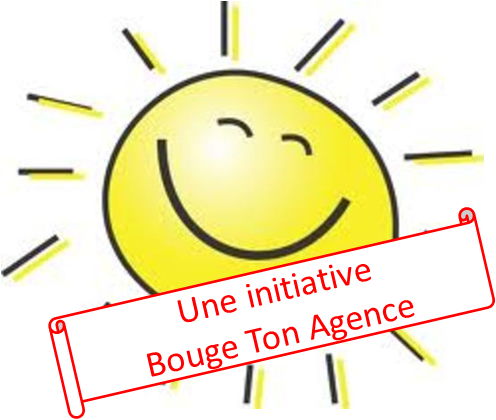
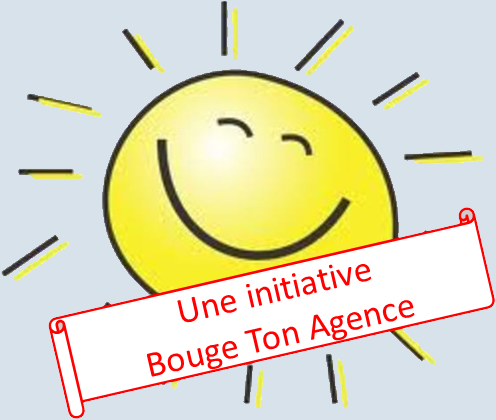
fix image and background

diff --git a/views/sign.html b/views/sign.html
@@ -32,8 +32,8 @@
             <p></p>
             <div align="justify">
               <button type="submit" class="btn btn-custom col-xs-12 col-sm-4 col-md-4" ng-click='signin()'><b>Se connecter</b></button>
-              <div class="col-xs-12 col-sm-2 col-md-4"></div>
-              <button type="submit" class="btn btn-custom col-xs-12 col-sm-6 col-md-4" ng-click='signup()'><i>Nouveau mot de passe</i></button>
+              <div class="col-xs-12 col-sm-2 col-md-3"></div>
+              <button type="submit" class="btn btn-custom col-xs-12 col-sm-6 col-md-5" ng-click='signup()'><i>Nouveau mot de passe</i></button>
             </div>
           </div>
         </div>
@@ -42,9 +42,11 @@
     </div>
     <div class="row"><p></p></div>
     <div class="row">
-        <div class="text-center">
-          <img src="static/img/BTA2.png" class="rounded mx-auto d-block" alt="BougeTonAgence">
+        <div class="col-xs-2 col-sm-3 col-md-4"></div>
+        <div class="col-xs-8 col-sm-6 col-md-4">
+          <img src="static/img/BTA2.png" class="img-responsive" alt="BougeTonAgence">
         </div>
+        <div class="col-xs-2 col-sm-3 col-md-4"></div>
     </div>
   </div>
 </div>

diff --git a/views/index.html b/views/index.html
@@ -8,8 +8,7 @@
     <script src="/static/js/games.js"></script>
   </head>
 
-  <body>
-    <div class="global-background">
+  <body class="global-background">
     {{<template "base/body.html" .>}}
     {{<template "sign.html" .>}}
 
@@ -68,7 +67,6 @@
           </div>
         </div>
       </div>
-    </div>
     </div>
   </body>
 </html>
